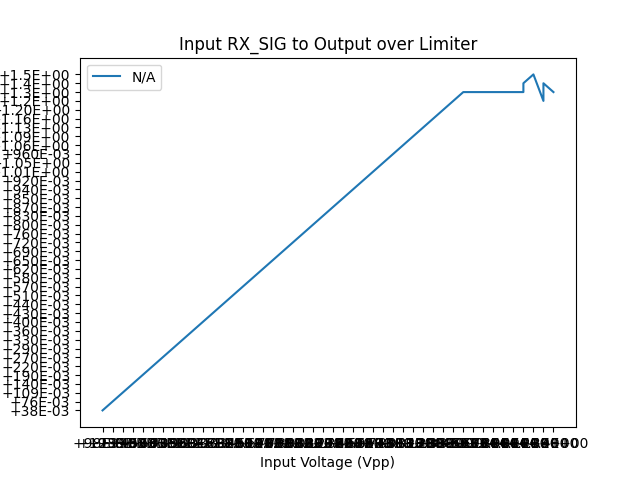
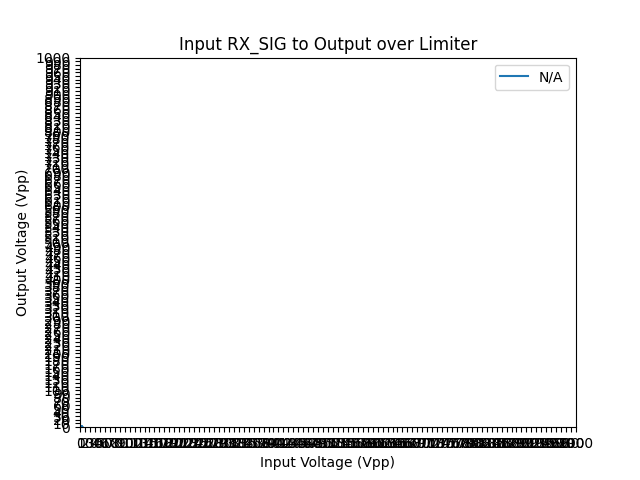
commit

diff --git a/M3/Karenbandpass.py b/M3/Karenbandpass.py
@@ -91,16 +91,16 @@ fxngen.write("UNIT:ANGL DEG")
 # Setup waveform generator
 fxngen.write("SOUR1:FUNCtion SIN")
 fxngen.write("SOUR1:FREQuency +1E+05")  # * 100 KHz frequency
-fxngen.write("SOUR1:VOLTage:HIGH +0.7")
-fxngen.write("SOUR1:VOLTage:LOW -0.7")
+fxngen.write("SOUR1:VOLTage:HIGH +0.5")
+fxngen.write("SOUR1:VOLTage:LOW -0.5")
 fxngen.write("SOUR1:PHASe:SYNC")
 fxngen.write("SOUR1:PHASe +0.0")
 fxngen.write("OUTPut1 ON")
 
 fxngen.write("SOUR2:FUNCtion SIN")
 fxngen.write("SOUR1:FREQuency +1E+05")  # * 100 KHz frequency
-fxngen.write("SOUR2:VOLTage:HIGH +0.7")
-fxngen.write("SOUR2:VOLTage:LOW -0.7")
+fxngen.write("SOUR2:VOLTage:HIGH +0.5")
+fxngen.write("SOUR2:VOLTage:LOW -0.5")
 fxngen.write("SOUR2:PHASe:SYNC")
 fxngen.write("SOUR2:PHASe +90.0")
 fxngen.write("OUTPut2 ON")
@@ -128,21 +128,20 @@ RX_db = []
 for freq in frequencies:
     freq_str = f"{freq:.2E}"  # SCPI prefers scientific notation
     fxngen.write(f"SOUR1:FREQ {freq_str}")
-    fxngen.write(f"SOUR2:FREQ {freq_str}")
     time.sleep(0.5)  # Allow time for signal to stabilize
 
     RX_vpp = float(scope.query(":MEAS:VPP? CHAN1"))
 
-    RX_db = 20 * math.log10(RX_vpp)
+    db = 20 * math.log10(RX_vpp)
     
-    RX_db.append(RX_db)
+    RX_db.append(db)
 
 # Plot and save the result
 plt.figure()
 plt.semilogx(frequencies, RX_db, label="RX dB (CH1)")
 plt.xlabel("Frequency (Hz)")
 plt.ylabel("RX Gain (dB)")
-plt.title("Frequency Response of IQ Amplifier")
+plt.title("Frequency Response of Bandpass")
 plt.legend()
 plt.grid(True, which="both", ls="--")
 plt.savefig("bpf_response.png")

diff --git a/M3/karenLimiter.py b/M3/karenLimiter.py
@@ -144,6 +144,7 @@ for index in range(len(inputVoltage)):
     print(f"{inputVoltage[index]} : {outputVoltage[index]}")
 
 # Plot the resulting temperatures
+plt.figure()
 plt.plot(inputVoltage, outputVoltage, label='N/A')
 plt.xlabel('Input Voltage (Vpp)')
 plt.ylabel('Output Voltage (Vpp)')
@@ -151,8 +152,8 @@ plt.title('Input RX_SIG to Output over Limiter')
 plt.legend()
 
 # Adjust the spacing between ticks
-plt.xticks(np.arange(0, max(inputVoltage)+1000, 20))  # Modify step size if needed
-plt.yticks(np.arange(0, max(outputVoltage)+1000, 20))  # Modify step size if needed
+plt.xticks(np.arange(0, max(inputVoltage)+1000, 10))  # Modify step size if needed
+plt.yticks(np.arange(0, max(outputVoltage)+1000, 10))  # Modify step size if needed
 plt.ticklabel_format(style='plain', axis='both')  # Disable scientific notation
 
 plt.savefig('limiter.png')
